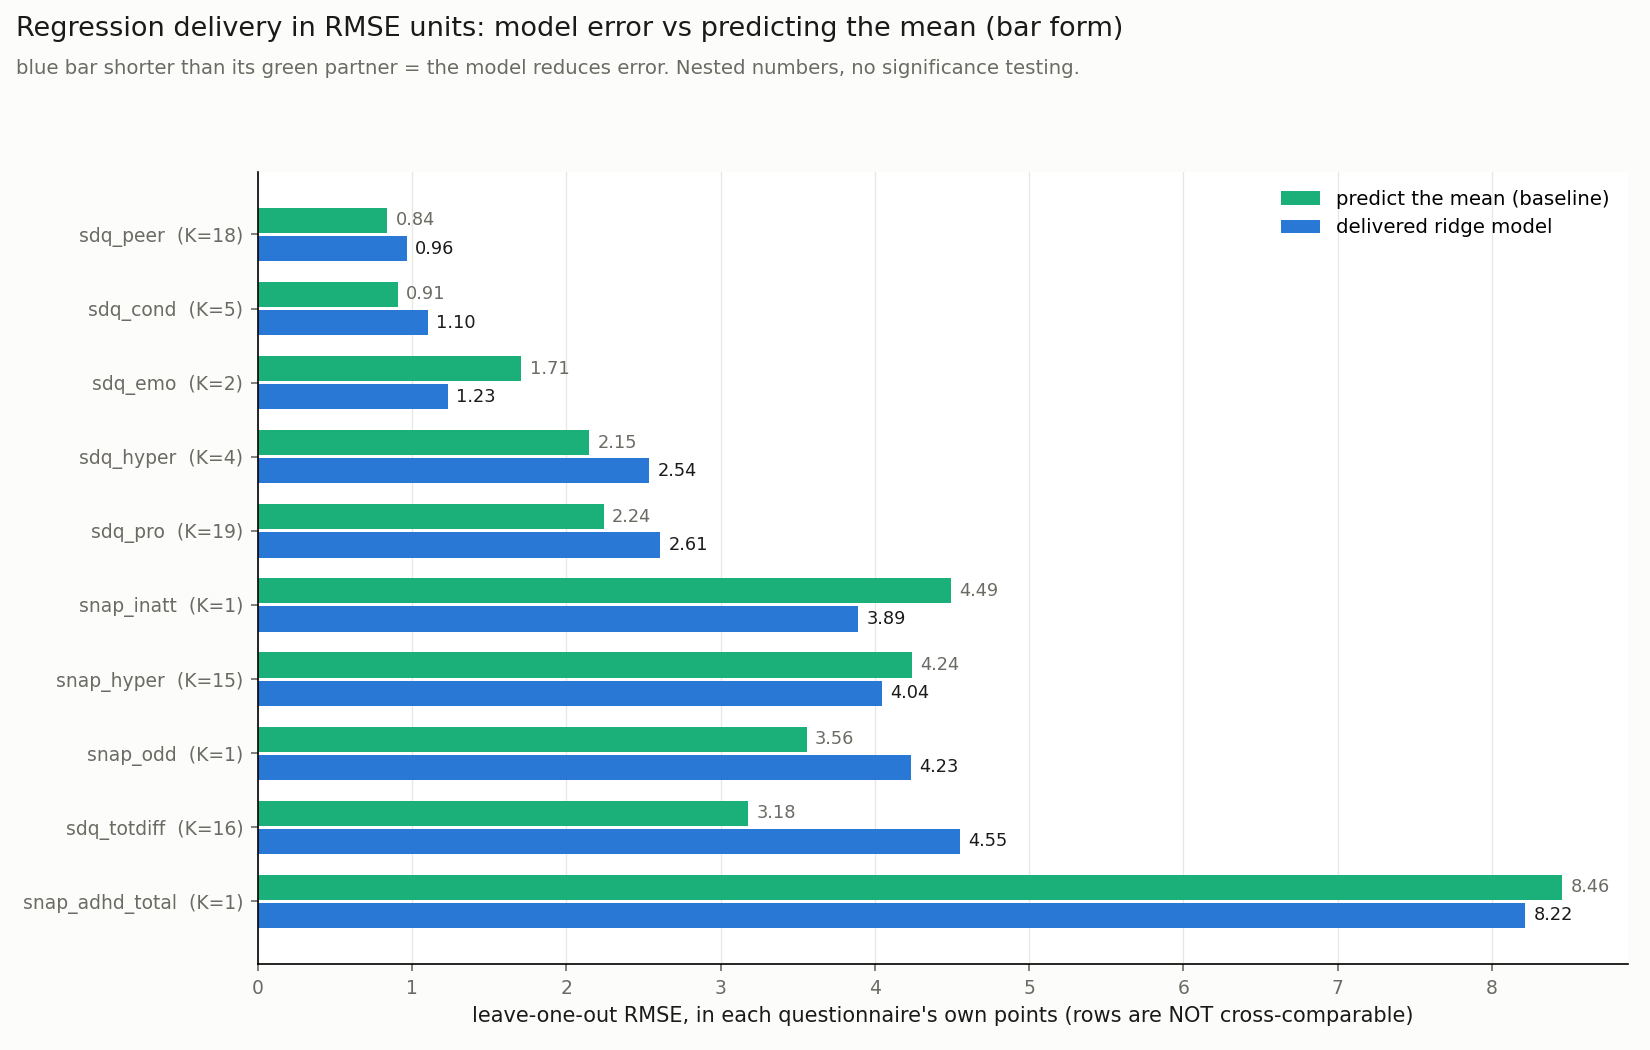
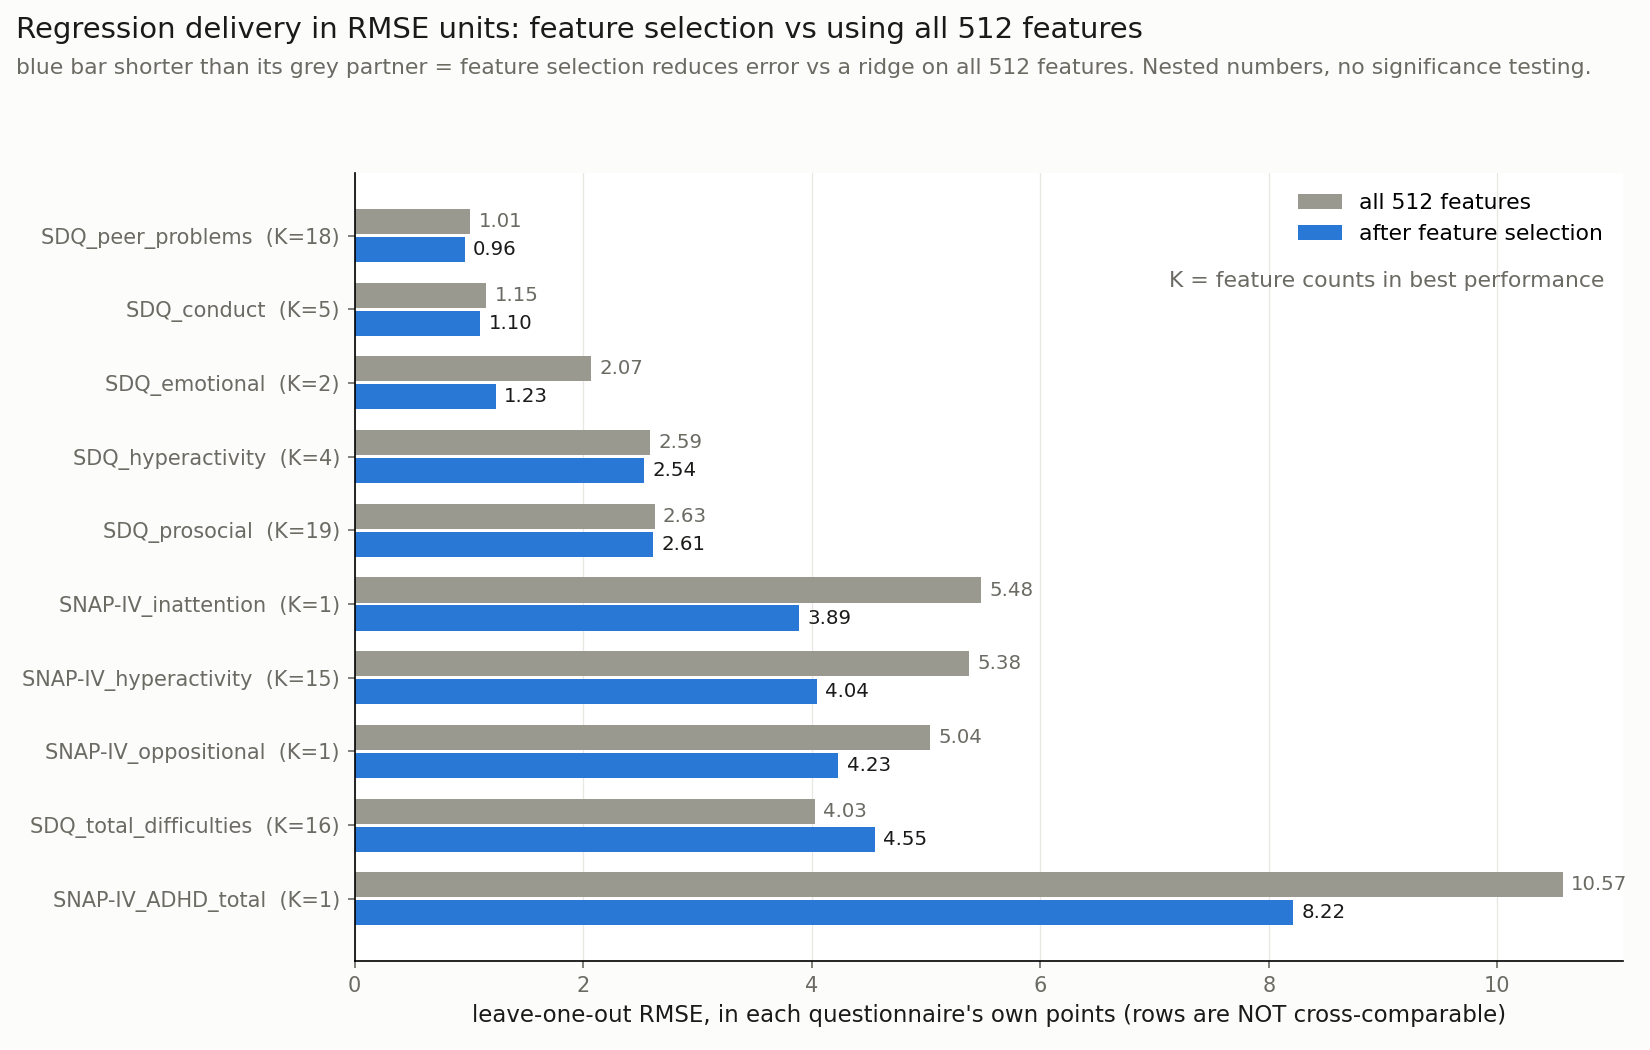
74d bars: re-spec'd as feature-selection vs all-512-features, real data
User-requested changes: grey partner bar, +1 on every font size, legend
renamed to 'all 512 features' / 'after feature selection' with a
'K = feature counts in best performance' line beneath, and full scale
names (SNAP-IV_/SDQ_ prefixes) on the y axis. One change the label
forced on the data: the partner bar previously drew the predict-the-mean
dummy, which the new legend would have misdescribed, so it now draws the
genuine all-512-feature ridge (LOO RMSE from kgrid_reg.csv, ridge rows
at K=512). The dumbbell rendering is untouched.

diff --git a/analysis/74d_reg_rmse_figure.py b/analysis/74d_reg_rmse_figure.py
@@ -75,42 +75,65 @@ fig.savefig(OUT, dpi=150, facecolor=fig.get_facecolor())
 print(f"written: {OUT.relative_to(ROOT)}")
 
 # ---- paired-bar rendering ---------------------------------------------------
-# user spec 2026-08-14: rows ordered by the DELIVERED model's RMSE, smallest
-# at the top; colors = the blue/green pair of the logit-bacc curve figure
-# (model blue #2a78d6, baseline green #1baf7a, validated palette slots 1/3).
-GREEN = "#1baf7a"
-mb = m.sort_values("rmse", ascending=False)   # barh: y=0 is the bottom row
+# Re-spec'd by the user 2026-08-16: the grey partner bar is now the REAL
+# all-512-feature ridge (LOO RMSE from kgrid_reg.csv, ridge rows at K=512 --
+# SelectKBest with k=512 selects everything), NOT the predict-the-mean dummy.
+# The user's requested legend ("all 512 features" vs "after feature
+# selection") would be false against the dummy, so the data was swapped to
+# match the label rather than the label lying about the data.  Rows ordered
+# by the delivered model's RMSE, smallest on top; grey/blue bars; +1 on all
+# font sizes; full scale names on the y axis.
+GREY2 = "#9a998f"
+kg = pd.read_csv(ROOT / "analysis" / "kgrid_reg.csv")
+b512 = kg[(kg["model"] == "ridge") & (kg["k"] == 512)].set_index("target")["rmse"]
+NAME = {"snap_inatt": "SNAP-IV_inattention",
+        "snap_hyper": "SNAP-IV_hyperactivity",
+        "snap_odd": "SNAP-IV_oppositional",
+        "snap_adhd_total": "SNAP-IV_ADHD_total",
+        "sdq_emo": "SDQ_emotional",
+        "sdq_cond": "SDQ_conduct",
+        "sdq_hyper": "SDQ_hyperactivity",
+        "sdq_peer": "SDQ_peer_problems",
+        "sdq_pro": "SDQ_prosocial",
+        "sdq_totdiff": "SDQ_total_difficulties"}
+mb = m.sort_values("rmse", ascending=False).copy()  # barh: y=0 = bottom row
+mb["base512"] = mb["target"].map(b512)
+assert not mb["base512"].isna().any()
 OUT2 = ROOT / "outputs" / "figures" / "final_reg_rmse_bars.png"
 fig2, ax = plt.subplots(figsize=(11, 7))
 fig2.patch.set_facecolor("#fcfcfb")
 ys = np.arange(len(mb))
-ax.barh(ys + 0.19, mb["dummy"], height=0.34, color=GREEN,
-        label="predict the mean (baseline)")
+ax.barh(ys + 0.19, mb["base512"], height=0.34, color=GREY2,
+        label="all 512 features")
 ax.barh(ys - 0.19, mb["rmse"], height=0.34, color=BLUE,
-        label="delivered ridge model")
+        label="after feature selection")
 for y, (_, r) in zip(ys, mb.iterrows()):
-    ax.annotate(f"{r['dummy']:.2f}", xy=(r["dummy"], y + 0.19),
+    ax.annotate(f"{r['base512']:.2f}", xy=(r["base512"], y + 0.19),
                 xytext=(4, 0), textcoords="offset points", va="center",
-                fontsize=8.5, color=MUTED)
+                fontsize=9.5, color=MUTED)
     ax.annotate(f"{r['rmse']:.2f}", xy=(r["rmse"], y - 0.19),
                 xytext=(4, 0), textcoords="offset points", va="center",
-                fontsize=8.5, color=INK)
-ax.set_yticks(ys, [f"{t}  (K={int(k)})"
-                   for t, k in zip(mb["target"], mb["k_final"])], fontsize=9.5)
+                fontsize=9.5, color=INK)
+ax.set_yticks(ys, [f"{NAME[t]}  (K={int(k)})"
+                   for t, k in zip(mb["target"], mb["k_final"])],
+              fontsize=10.5)
 ax.set_xlabel("leave-one-out RMSE, in each questionnaire's own points "
-              "(rows are NOT cross-comparable)", fontsize=10, color=INK)
-ax.legend(loc="upper right", frameon=False, fontsize=9.5)
+              "(rows are NOT cross-comparable)", fontsize=11, color=INK)
+leg = ax.legend(loc="upper right", frameon=False, fontsize=10.5)
+ax.annotate("K = feature counts in best performance",
+            xy=(0.985, 0.855), xycoords="axes fraction", ha="right",
+            fontsize=10.5, color=MUTED)
 ax.grid(axis="x", color="#e8e7e0", lw=0.6)
 ax.set_axisbelow(True)
 for sp in ("top", "right"):
     ax.spines[sp].set_visible(False)
-ax.tick_params(colors=MUTED, labelsize=9)
-fig2.suptitle("Regression delivery in RMSE units: model error vs "
-              "predicting the mean (bar form)", x=0.01, y=0.985, ha="left",
-              fontsize=13, color=INK)
-fig2.text(0.01, 0.93, "blue bar shorter than its green partner = the model "
-          "reduces error. Nested numbers, no significance testing.",
-          fontsize=9.5, color=MUTED)
+ax.tick_params(colors=MUTED, labelsize=10)
+fig2.suptitle("Regression delivery in RMSE units: feature selection vs "
+              "using all 512 features", x=0.01, y=0.985, ha="left",
+              fontsize=14, color=INK)
+fig2.text(0.01, 0.93, "blue bar shorter than its grey partner = feature "
+          "selection reduces error vs a ridge on all 512 features. Nested "
+          "numbers, no significance testing.", fontsize=10.5, color=MUTED)
 fig2.tight_layout(rect=(0, 0, 1, 0.905))
 fig2.savefig(OUT2, dpi=150, facecolor=fig2.get_facecolor())
 print(f"written: {OUT2.relative_to(ROOT)}")
